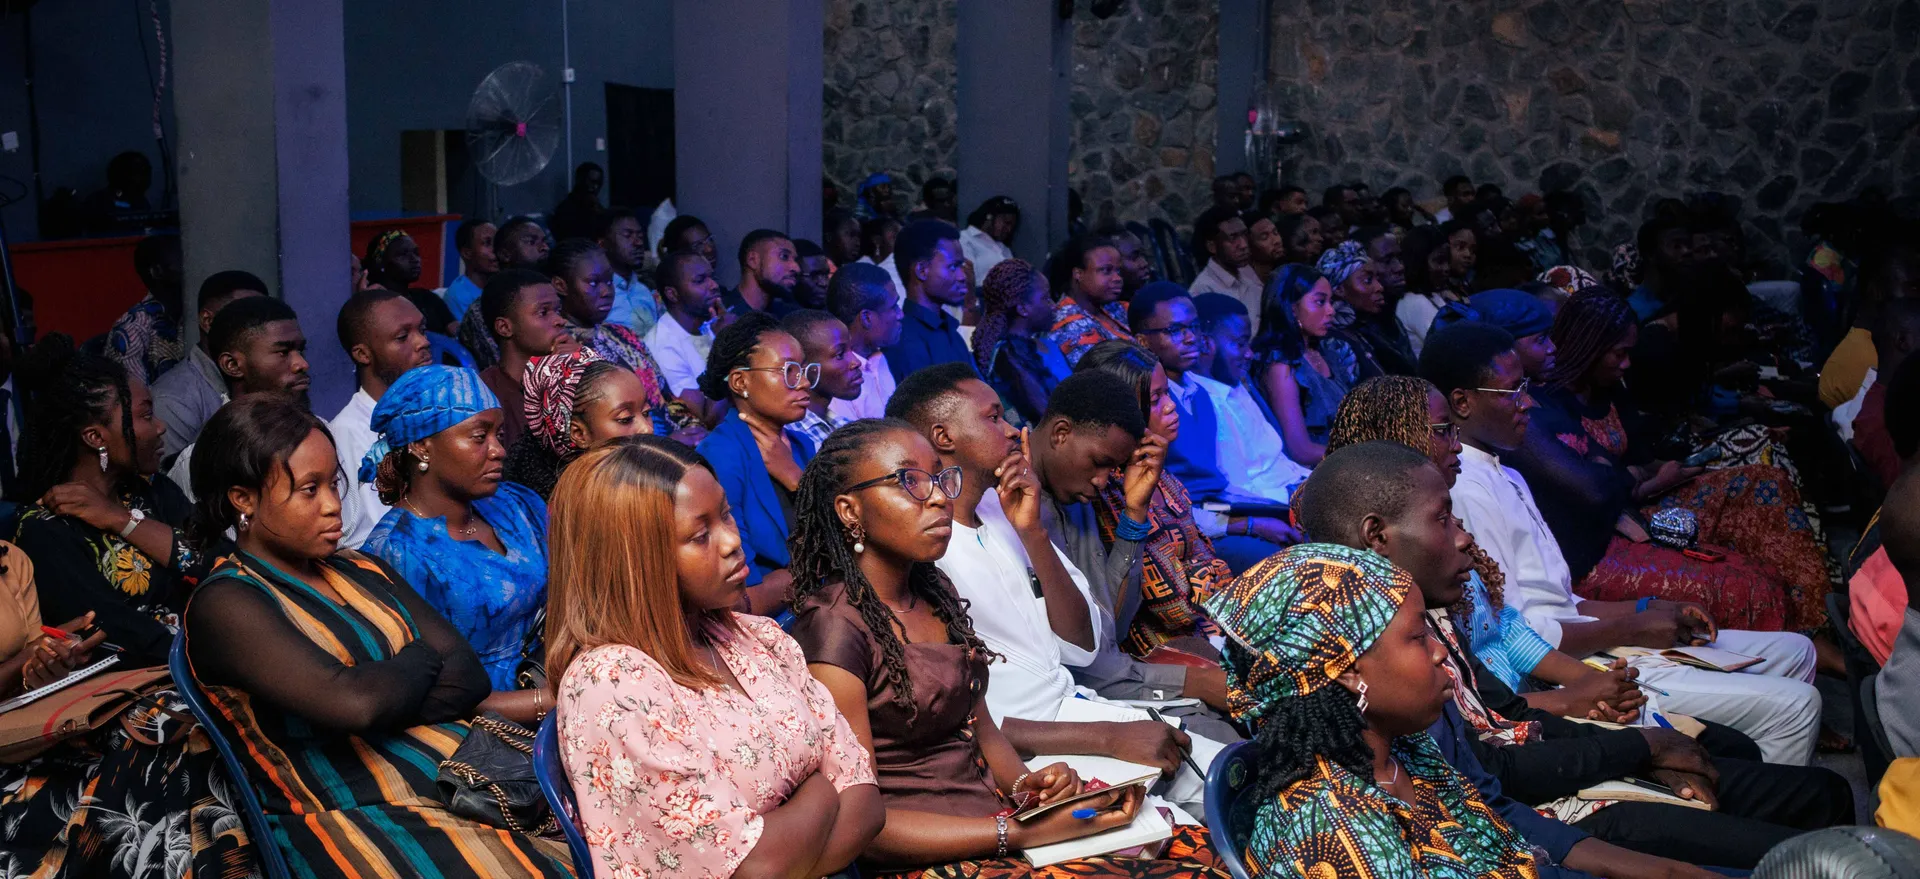
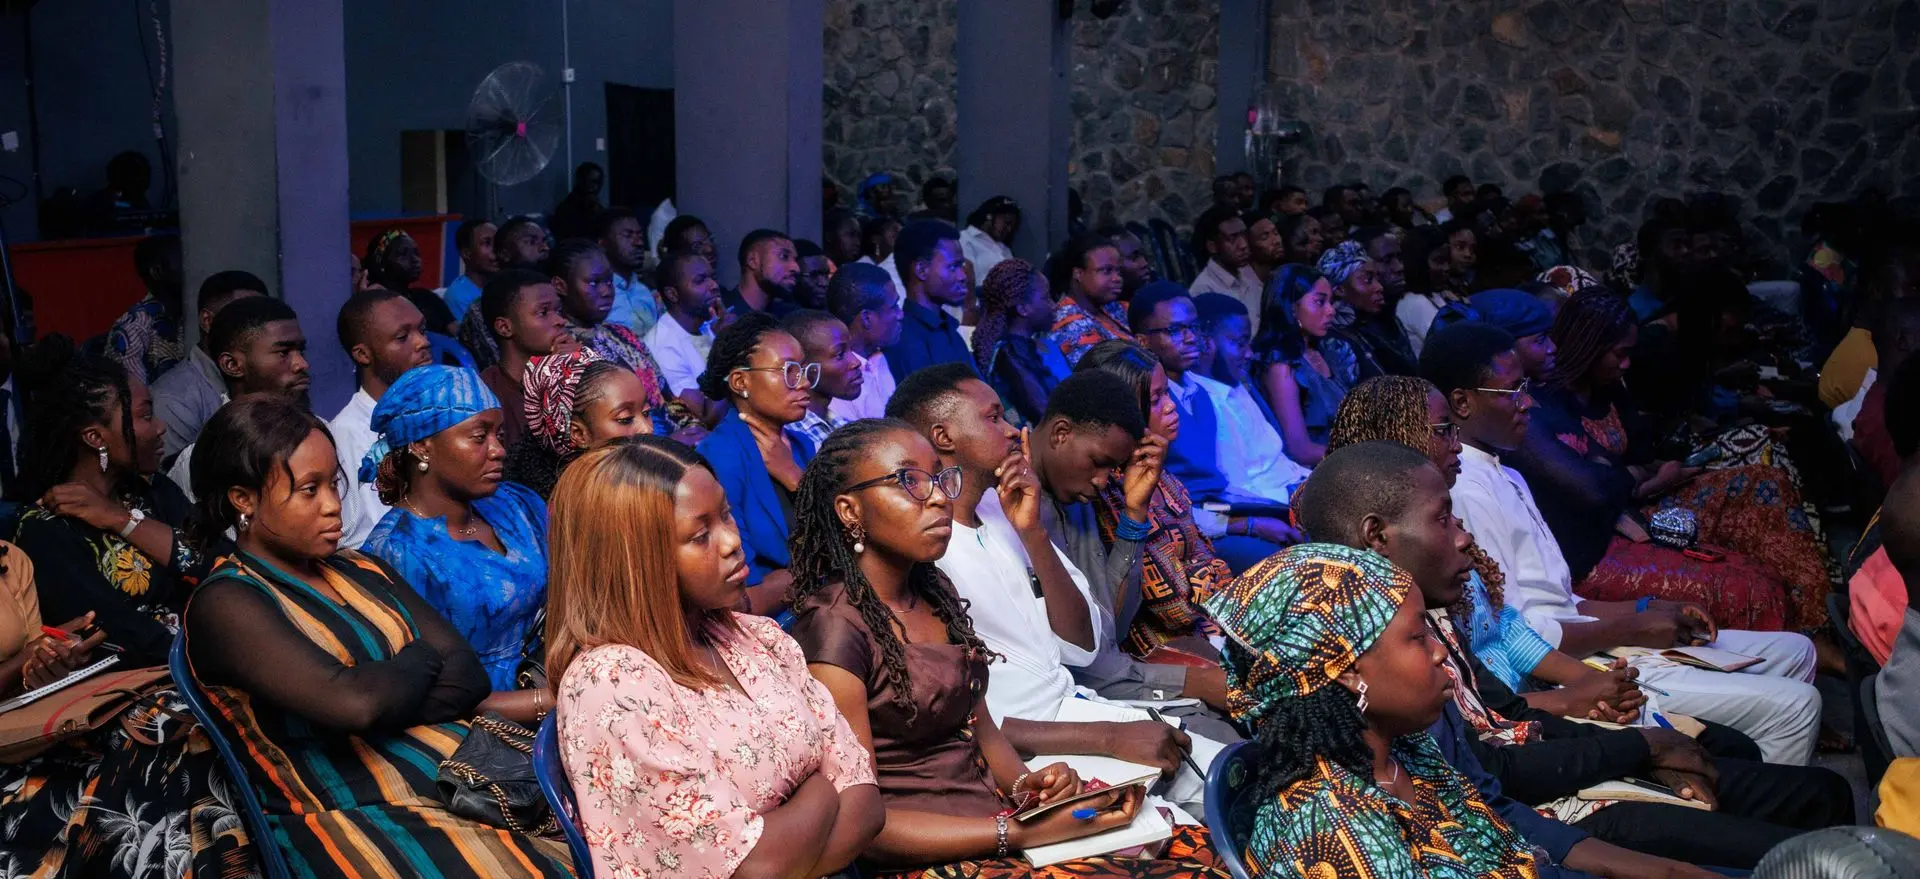
perf: restore pure static homepage, cache home-data API, convert hero assets to webp

Changed region(s): [[0.6562, 0.8908, 0.7812, 1.0], [0.5938, 0.5836, 0.7188, 0.7065]]

diff --git a/publishers-house/src/app/cms/homepage/page.tsx b/publishers-house/src/app/cms/homepage/page.tsx
@@ -41,7 +41,7 @@ const DEF: Record<string, string|boolean> = {
   heroSundayLabel:"Sunday Worship", heroSundayTime:"9:00 AM",
   heroMidweekLabel:"Midweek Service", heroMidweekTime:"5:00 PM",
   heroAddress:"The House of Bread, Korinjoh House, British, Jos · West Africa Time",
-  heroBgImage:"/images/hero-v2.jpg",
+  heroBgImage:"/images/hero-v2.webp",
   setmanHeading:"Welcome Message\nfrom the Setman",
   setmanSubtext:"What Paul asks of anyone who handles Scripture in public, and why accuracy is a matter of love before it is a matter of scholarship.",
   setmanBtnLabel:"Read More About Us", setmanBtnUrl:"/about",
@@ -53,12 +53,12 @@ const DEF: Record<string, string|boolean> = {
   teachingBtn1Label:"Listen — 48:12", teachingBtn1Url:"/resources",
   teachingBtn2Label:"Read the Transcript", teachingBtn2Url:"/resources",
   teachingColophon:"2 Timothy 2:15,Foundations,Dr. Joshua Agunbiade,Jos,48:12",
-  teachingImageUrl:"/images/sermon-v2.jpg",
+  teachingImageUrl:"/images/sermon-v2.webp",
   whoEyebrow:"Who We Are",
   whoQuote:"Every believer is commissioned to become a publisher of God's message.",
   whoBody:"Established in 2020 under the leadership of Dr. Joshua Agunbiade, the ministry exists to equip believers, strengthen the Church and advance the Kingdom through biblical teaching, revival and apologetics.",
   whoBtnLabel:"Read What We Believe", whoBtnUrl:"/about",
-  whoBgImage:"/images/who-we-are-v2.jpg",
+  whoBgImage:"/images/who-we-are-v2.webp",
   annShow:true, annHeading:"Special Announcement",
   annSubheading:"We Are Building",
   annBody:"After five years of meeting in rented spaces, we have successfully acquired land for a permanent ministry home.",
@@ -68,7 +68,7 @@ const DEF: Record<string, string|boolean> = {
   givingEyebrow:"Giving", givingHeading:"Your Giving Publishes the Word",
   givingBody:"Gifts to this house pay for the gatherings, the recording and transcription of every teaching, and the programmes that carry the Word beyond Jos.",
   givingBtnLabel:"Give Now", givingBtnUrl:"/giving",
-  givingBgImage:"/images/giving-bg.jpg",
+  givingBgImage:"/images/giving-bg.webp",
   givingCategories:"Tithe,Offering,Special Projects,Thanksgiving",
 };
 
@@ -175,7 +175,7 @@ export default function HomepageEditor() {
         <div style={card}>
           <h2 style={{ fontFamily:"'Poppins',sans-serif", fontWeight:700, fontSize:"18px", color:Navy, margin:"0 0 24px" }}>Hero Section</h2>
           <div style={{ display:"flex", flexDirection:"column", gap:"16px" }}>
-            {FRow([["Scripture Eyebrow","heroEyebrow","Psalm 68:11"],["Hero Background Image URL","heroBgImage","/images/hero-v2.jpg"]])}
+            {FRow([["Scripture Eyebrow","heroEyebrow","Psalm 68:11"],["Hero Background Image URL","heroBgImage","/images/hero-v2.webp"]])}
             {F("Main Headline","heroHeadline","Company of the Great")}
             {F("Subtitle / Tagline","heroSubtitle","An apostolic and scriptural ministry...",true)}
             {FRow([["Button 1 Label","heroBtn1Label"],["Button 1 URL","heroBtn1Url","/about"]])}
@@ -289,7 +289,7 @@ export default function HomepageEditor() {
           <h2 style={{ fontFamily:"'Poppins',sans-serif", fontWeight:700, fontSize:"18px", color:Navy, margin:"0 0 24px" }}>Latest Teaching Section</h2>
           <div style={{ display:"flex", flexDirection:"column", gap:"16px" }}>
             {FRow([["Section Eyebrow","teachingEyebrow"],["Section Heading","teachingHeading"]])}
-            {FRow([["Series Eyebrow (e.g. Foundations · Part 8)","teachingSeriesEyebrow","Foundations · Part Eight"],["Sermon Image URL","teachingImageUrl","/images/sermon-v2.jpg"]])}
+            {FRow([["Series Eyebrow (e.g. Foundations · Part 8)","teachingSeriesEyebrow","Foundations · Part Eight"],["Sermon Image URL","teachingImageUrl","/images/sermon-v2.webp"]])}
             {F("Sermon Title","teachingTitle","A Workman Unashamed")}
             {F("Description","teachingDesc","",true)}
             {FRow([["Button 1 Label","teachingBtn1Label","Listen — 48:12"],["Button 1 URL","teachingBtn1Url","/resources"]])}
@@ -315,7 +315,7 @@ export default function HomepageEditor() {
             {F("Pull Quote / Epigraph","whoQuote","Every believer is commissioned...",true)}
             {F("Body Paragraph","whoBody","Established in 2020...",true)}
             {FRow([["Button Label","whoBtnLabel","Read What We Believe"],["Button URL","whoBtnUrl","/about"]])}
-            {F("Background Image URL","whoBgImage","/images/who-we-are-v2.jpg")}
+            {F("Background Image URL","whoBgImage","/images/who-we-are-v2.webp")}
           </div>
           <div style={{ marginTop:"24px" }}>
             <button onClick={saveSettings} disabled={saving} style={{ ...btn(Blue700,White), opacity:saving?0.6:1 }}>{saving?"Saving...":"Save Who We Are Section"}</button>
@@ -353,7 +353,7 @@ export default function HomepageEditor() {
             {FRow([["Eyebrow","givingEyebrow","Giving"],["Section Heading","givingHeading","Your Giving Publishes the Word"]])}
             {F("Body Text","givingBody","Gifts to this house...",true)}
             {FRow([["Button Label","givingBtnLabel","Give Now"],["Button URL","givingBtnUrl","/giving"]])}
-            {F("Background Image URL","givingBgImage","/images/giving-bg.jpg")}
+            {F("Background Image URL","givingBgImage","/images/giving-bg.webp")}
             <div>
               <label style={lbl}>Giving Categories (comma-separated)</label>
               <input style={inp} value={settings.givingCategories??""} onChange={e => S("givingCategories",e.target.value)} placeholder="Tithe,Offering,Special Projects,Thanksgiving" />

diff --git a/publishers-house/src/components/HomeContent.tsx b/publishers-house/src/components/HomeContent.tsx
@@ -44,7 +44,7 @@ const D = {
   heroSundayLabel: "Sunday Worship",   heroSundayTime: "9:00 AM",
   heroMidweekLabel: "Midweek Service", heroMidweekTime: "5:00 PM",
   heroAddress: "The House of Bread, Korinjoh House, British, Jos · West Africa Time",
-  heroBgImage: "/images/hero-v2.jpg",
+  heroBgImage: "/images/hero-v2.webp",
 
   // Setman
   setmanHeading: "Welcome Message\nfrom the Setman",
@@ -65,14 +65,14 @@ const D = {
   teachingBtn1Label: "Listen — 48:12",    teachingBtn1Url: "/resources",
   teachingBtn2Label: "Read the Transcript", teachingBtn2Url: "/resources",
   teachingColophon: "2 Timothy 2:15,Foundations,Dr. Joshua Agunbiade,Jos,48:12",
-  teachingImageUrl: "/images/sermon-v2.jpg",
+  teachingImageUrl: "/images/sermon-v2.webp",
 
   // Who We Are
   whoEyebrow: "Who We Are",
   whoQuote: "Every believer is commissioned to become a publisher of God's message.",
   whoBody: "Established in 2020 under the leadership of Dr. Joshua Agunbiade, the ministry exists to equip believers, strengthen the Church and advance the Kingdom through biblical teaching, revival and apologetics.",
   whoBtnLabel: "Read What We Believe", whoBtnUrl: "/about",
-  whoBgImage: "/images/who-we-are-v2.jpg",
+  whoBgImage: "/images/who-we-are-v2.webp",
 
   // Announcement
   annShow: true,
@@ -88,7 +88,7 @@ const D = {
   givingHeading: "Your Giving Publishes the Word",
   givingBody: "Gifts to this house pay for the gatherings, the recording and transcription of every teaching, and the programmes that carry the Word beyond Jos.",
   givingBtnLabel: "Give Now", givingBtnUrl: "/giving",
-  givingBgImage: "/images/giving-bg.jpg",
+  givingBgImage: "/images/giving-bg.webp",
   givingCategories: "Tithe,Offering,Special Projects,Thanksgiving",
 };
 
@@ -98,15 +98,9 @@ const FALLBACK_GATHERINGS = [
   { day:"THU", date:"08", month:"OCT", title:"Midweek Service", desc:"Doctrine, spiritual re-alignment and corporate prayer.", scripture:"Acts 2:42", time:"5:00 PM", city:"Jos", published:true, order:2 },
 ];
 
-export default function HomeContent({ 
-  initialSettings, 
-  initialGatherings 
-}: { 
-  initialSettings?: any, 
-  initialGatherings?: any[] 
-}) {
-  const [s] = useState<any>({ ...D, ...(initialSettings || {}) });
-  const [gatherings] = useState<any[]>(initialGatherings && initialGatherings.length > 0 ? initialGatherings : FALLBACK_GATHERINGS);
+export default function HomeContent() {
+  const [s, setS] = useState<any>({ ...D });
+  const [gatherings, setGatherings] = useState<any[]>(FALLBACK_GATHERINGS);
   const [heroSlide, setHeroSlide] = useState(0);
 
   useEffect(() => {
@@ -114,6 +108,16 @@ export default function HomeContent({
       setHeroSlide((prev) => (prev === 0 ? 1 : 0));
     }, 5000);
     return () => clearInterval(timer);
+  }, []);
+
+  useEffect(() => {
+    fetch("/api/home-data")
+      .then(r => r.json())
+      .then(data => {
+        if (data.settings) setS((prev: any) => ({ ...prev, ...data.settings }));
+        if (data.gatherings?.length > 0) setGatherings(data.gatherings);
+      })
+      .catch(() => {});
   }, []);
 
   const headingLines = (s.setmanHeading || D.setmanHeading).split("\n");

diff --git a/publishers-house/src/app/page.tsx b/publishers-house/src/app/page.tsx
@@ -40,13 +40,12 @@ const T = {
   colophon:  { fontFamily:"var(--font-poppins)", fontWeight:500, fontSize:"10.5px", lineHeight:"1.6em", letterSpacing:"0.1em", textTransform:"uppercase" as const },
 };
 
-import { db } from "@/lib/firebase"; import { doc, getDoc, collection, getDocs, query, orderBy } from "firebase/firestore"; export const revalidate = 60; export default async function HomePage() { let initialSettings = {}; let initialGatherings: any[] = []; try { const snap = await getDoc(doc(db, "homeSettings", "main")); if (snap.exists()) initialSettings = snap.data(); } catch (e) {} try { const snap = await getDocs(query(collection(db, "gatherings"), orderBy("order", "asc"))); initialGatherings = snap.docs.map(d => ({ id: d.id, ...d.data() })).filter((g: any) => g.published !== false); } catch (e) {}
+export default function HomePage() {
   return (
     <>
       <Navbar />
       <main>
-        {/* All editable dynamic sections — fetched live from Firestore */}
-        <HomeContent initialSettings={initialSettings} initialGatherings={initialGatherings} />
+        <HomeContent />
 
         {/* Flagship Programs — static (managed via CMS Programs) */}
         <section className="tph-section" style={{ backgroundColor: Paper100 }}>
@@ -58,7 +57,7 @@ import { db } from "@/lib/firebase"; import { doc, getDoc, collection, getDocs, 
                 <a key={prog.slug} href="/programs" style={{ textDecoration: "none" }}>
                   <div style={{ border: `1px solid ${Paper300}`, borderRadius: "4px", overflow: "hidden", backgroundColor: White, cursor: "pointer" }}>
                     <div style={{ height: "160px", overflow: "hidden", borderBottom: `1px solid ${Paper300}`, display: "flex", alignItems: "center", justifyContent: "center", backgroundColor: Paper100 }}>
-                      <img src={prog.logoImage} alt={prog.name} style={{ width: "100%", height: "100%", objectFit: "contain", objectPosition: "center", padding: "32px", filter: (prog.slug === "abuja-apostolic-camp" || prog.slug === "sunday-midweek") ? "brightness(0)" : "none" }} />
+                      <img src={prog.logoImage} alt={prog.name} loading="lazy" style={{ width: "100%", height: "100%", objectFit: "contain", objectPosition: "center", padding: "32px", filter: (prog.slug === "abuja-apostolic-camp" || prog.slug === "sunday-midweek") ? "brightness(0)" : "none" }} />
                     </div>
                     <div style={{ padding: "24px", display: "flex", flexDirection: "column", gap: "10px" }}>
                       <div style={{ ...T.eyebrow, color: Blue500 }}>{prog.schedule}</div>

diff --git a/publishers-house/src/app/api/home-data/route.ts b/publishers-house/src/app/api/home-data/route.ts
@@ -1,0 +1,28 @@
+import { NextResponse } from "next/server";
+import { db } from "@/lib/firebase";
+import { doc, getDoc, collection, getDocs, query, orderBy } from "firebase/firestore";
+
+export const revalidate = 300; // cache for 5 minutes
+
+export async function GET() {
+  let settings = {};
+  let gatherings: any[] = [];
+
+  try {
+    const snap = await getDoc(doc(db, "homeSettings", "main"));
+    if (snap.exists()) settings = snap.data();
+  } catch (e) {}
+
+  try {
+    const snap = await getDocs(query(collection(db, "gatherings"), orderBy("order", "asc")));
+    gatherings = snap.docs
+      .map(d => ({ id: d.id, ...d.data() }))
+      .filter((g: any) => g.published !== false);
+  } catch (e) {}
+
+  return NextResponse.json({ settings, gatherings }, {
+    headers: {
+      "Cache-Control": "public, s-maxage=300, stale-while-revalidate=600",
+    },
+  });
+}

diff --git a/publishers-house/src/app/giving/page.tsx b/publishers-house/src/app/giving/page.tsx
@@ -174,7 +174,7 @@ export default function GivingPage() {
           className="tph-hero"
           style={{ borderBottom: "none", position: "relative", overflow: "hidden" }}
         >
-          <div style={{ position: "absolute", inset: 0, backgroundImage: "url('/images/giving-bg.jpg')", backgroundSize: "cover", backgroundPosition: "center 25%", zIndex: 0 }} />
+          <div style={{ position: "absolute", inset: 0, backgroundImage: "url('/images/giving-bg.webp')", backgroundSize: "cover", backgroundPosition: "center 25%", zIndex: 0 }} />
           <div style={{ position: "absolute", inset: 0, backgroundColor: "rgba(21,26,84,0.85)", zIndex: 1 }} />
 
           <div style={{ position: "relative", zIndex: 2, maxWidth: "1440px", margin: "0 auto", width: "100%", display: "flex", flexDirection: "column", gap: "12px" }}>

diff --git a/publishers-house/src/app/cms/login/page.tsx b/publishers-house/src/app/cms/login/page.tsx
@@ -29,7 +29,7 @@ export default function CMSLoginPage() {
   return (
     <div style={{ position: "relative", display: "flex", flexDirection: "column", justifyContent: "center", alignItems: "center", minHeight: "100vh", backgroundColor: "#151A54" }}>
       {/* Background Image with Overlay */}
-      <div style={{ position: "absolute", inset: 0, backgroundImage: "url('/images/hero-v2.jpg')", backgroundSize: "cover", backgroundPosition: "center top", zIndex: 0 }} />
+      <div style={{ position: "absolute", inset: 0, backgroundImage: "url('/images/hero-v2.webp')", backgroundSize: "cover", backgroundPosition: "center top", zIndex: 0 }} />
       <div style={{ position: "absolute", inset: 0, backgroundColor: "rgba(21,26,84,0.88)", zIndex: 1 }} />
 
       {/* Top Right Logo */}

diff --git a/publishers-house/src/components/ArticleCarousel.tsx b/publishers-house/src/components/ArticleCarousel.tsx
@@ -207,7 +207,7 @@ export default function ArticleCarousel() {
               style={{
                 backgroundImage: cover
                   ? `url(${cover})`
-                  : "url('/images/who-we-are-v2.jpg')",
+                  : "url('/images/who-we-are-v2.webp')",
                 backgroundSize: "cover",
                 backgroundPosition: "center top",
                 minHeight: "280px",
